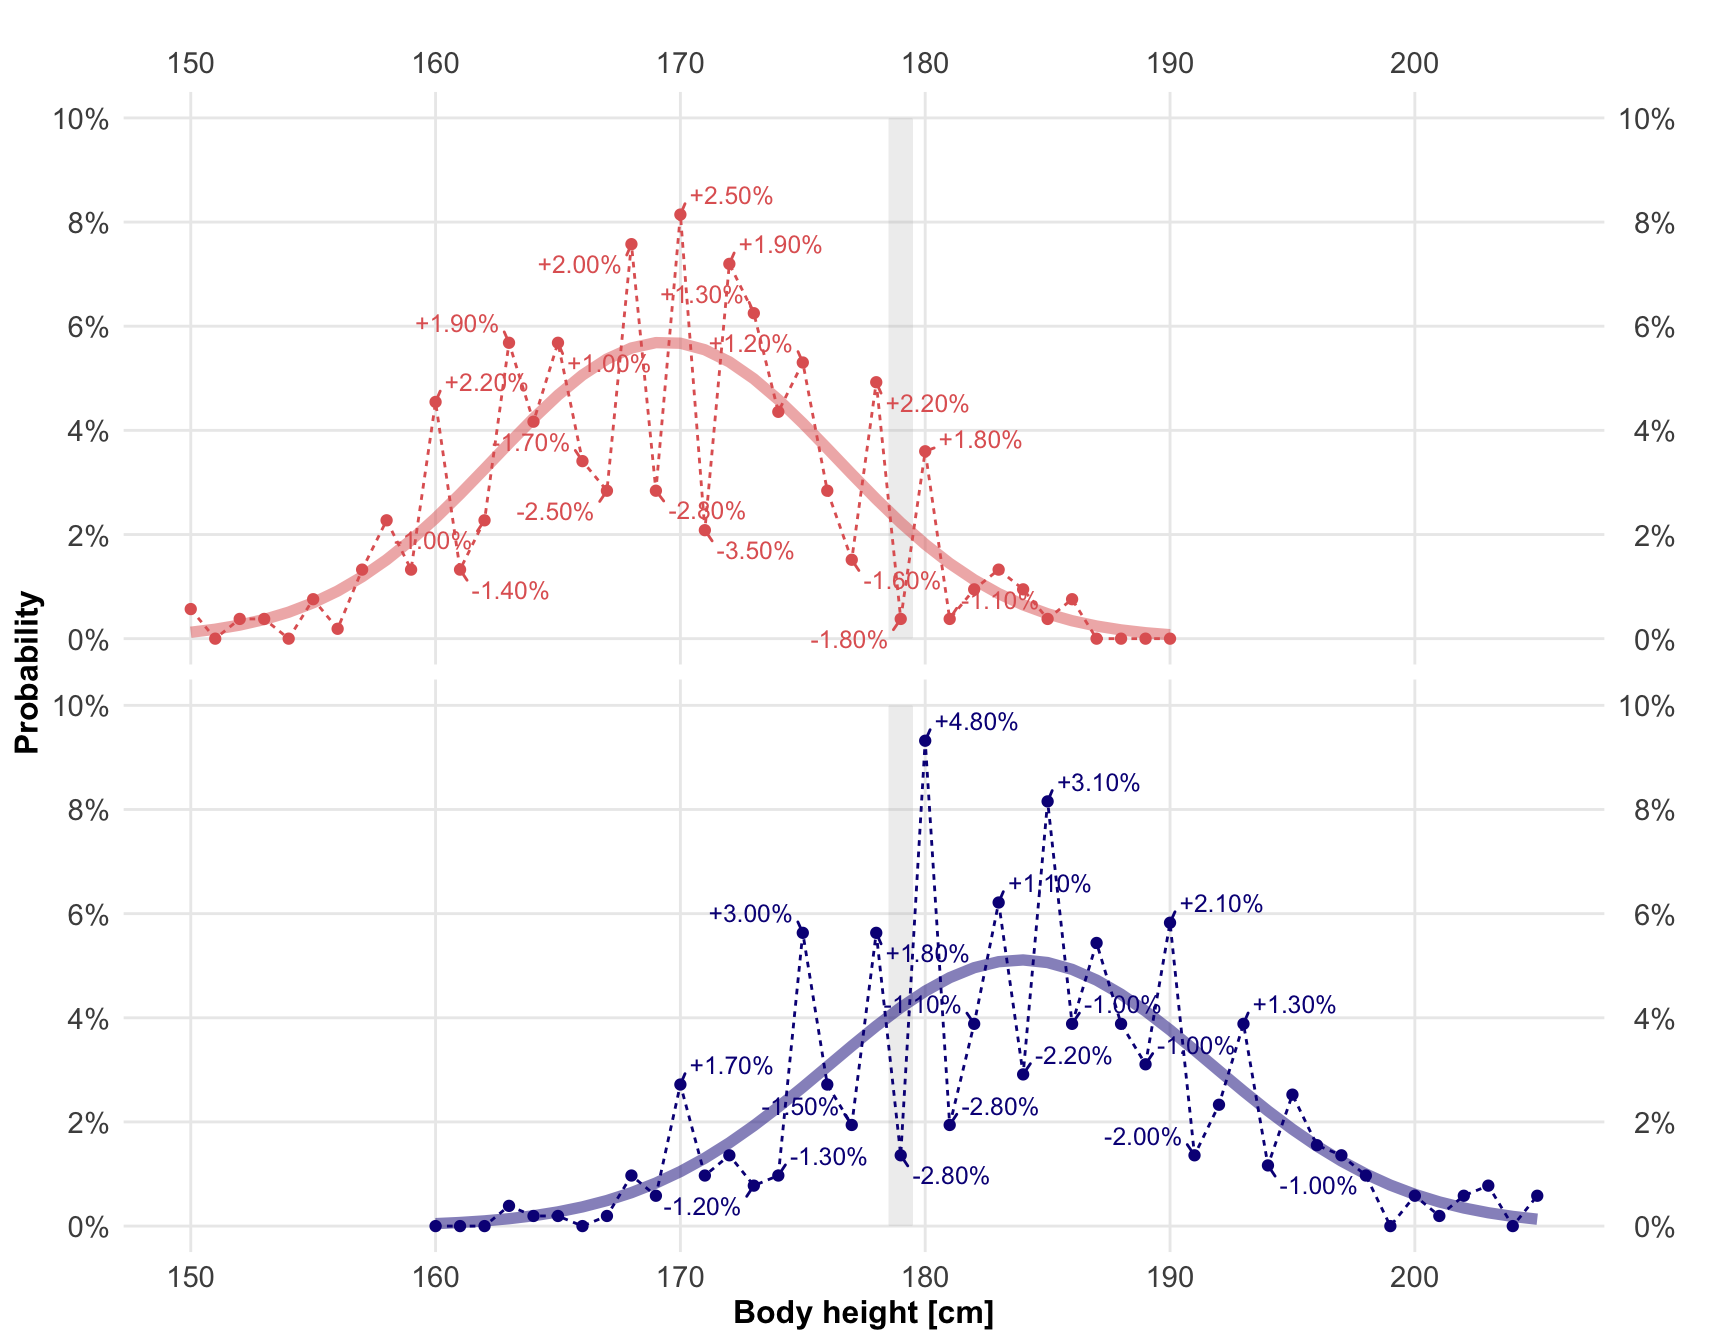
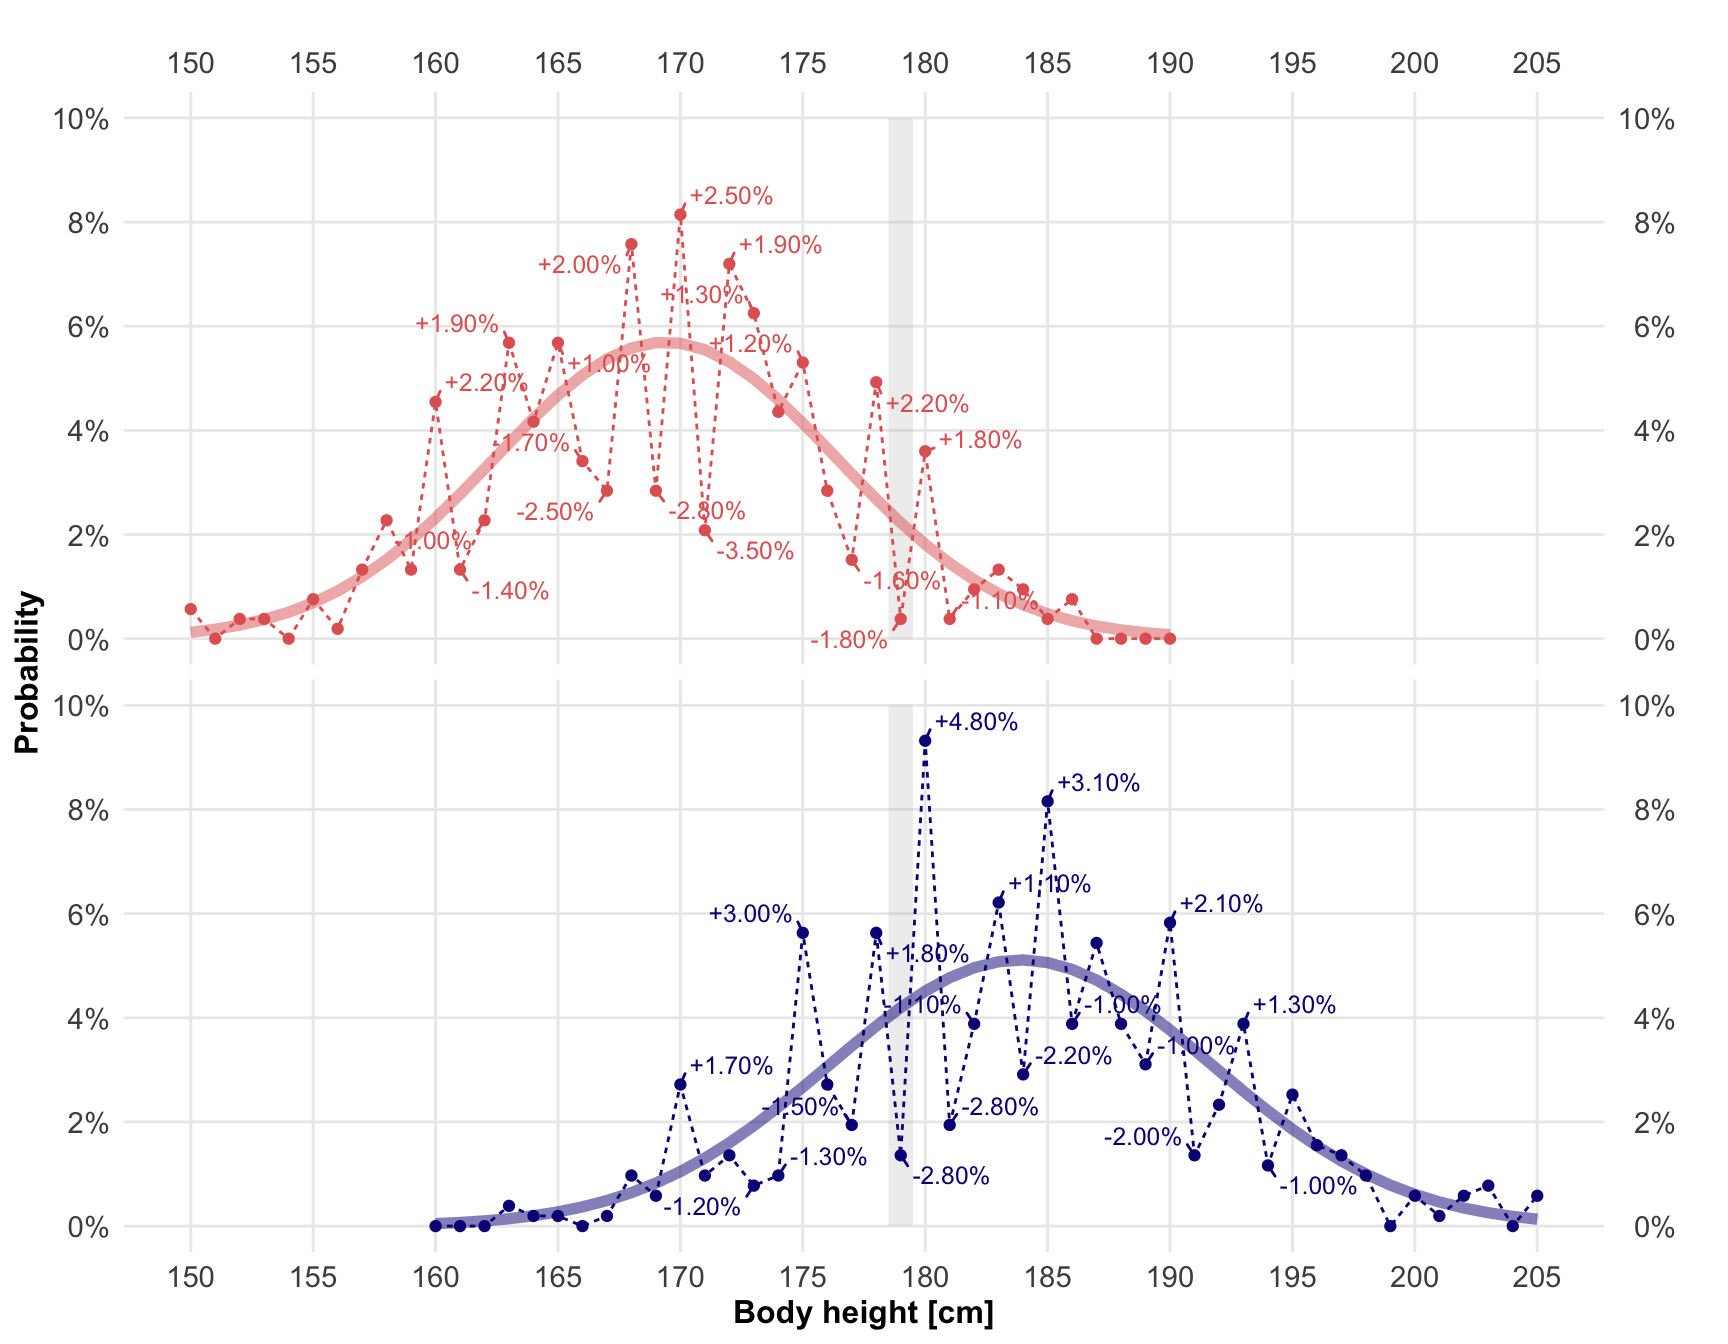
added

diff --git a/docs/interlude-I-gummibaers.html b/docs/interlude-I-gummibaers.html
@@ -460,7 +460,7 @@ window.Quarto = {
 </header>
 
 
-<p><em>Last modified on 22. October 2026 at 17:46:34</em></p>
+<p><em>Last modified on 22. October 2026 at 18:41:06</em></p>
 <blockquote class="blockquote">
 <p><em>“Gummy Bears! Bouncing here and there and everywhere; High adventure that’s beyond compare; They are the Gummy Bears.” — Gummy Bears Theme, Adventures of the Gummy Bears</em></p>
 </blockquote>
@@ -1605,7 +1605,7 @@ Probability to be 179cm
 </div>
 <div class="cell" data-layout-align="center">
 <div class="cell-output-display">
-<div id="fig-chap-interlude-I-hist-height-deviation" class="quarto-float quarto-figure quarto-figure-center anchored" width="864" data-fig-align="center">
+<div id="fig-chap-interlude-I-hist-height-deviation" class="quarto-float quarto-figure quarto-figure-center anchored" data-fig-align="center" width="864">
 <figure class="quarto-float quarto-float-fig figure">
 <div aria-describedby="fig-chap-interlude-I-hist-height-deviation-caption-0ceaefa1-69ba-4598-a22c-09a6ac19f8ca">
 <a href="interlude-I-gummibaers_files/figure-html/fig-chap-interlude-I-hist-height-deviation-1.png" class="lightbox" data-gallery="quarto-lightbox-gallery-4" title="Figure&nbsp;4.4: "><img src="interlude-I-gummibaers_files/figure-html/fig-chap-interlude-I-hist-height-deviation-1.png" id="fig-chap-interlude-I-hist-height-deviation" class="img-fluid quarto-figure quarto-figure-center anchored figure-img" width="864"></a>
@@ -2879,7 +2879,7 @@ Table&nbsp;4.9: A not-so-serious table of rare events and their odds of happenin
 <span id="cb9-479"><a href="#cb9-479" aria-hidden="true" tabindex="-1"></a>  <span class="fu">facet_wrap</span>(<span class="sc">~</span>gender, <span class="at">nrow =</span> <span class="dv">2</span>) <span class="sc">+</span></span>
 <span id="cb9-480"><a href="#cb9-480" aria-hidden="true" tabindex="-1"></a>  <span class="fu">scale_y_continuous</span>(<span class="at">label =</span> scales<span class="sc">::</span>percent, <span class="at">breaks =</span> <span class="fu">c</span>(<span class="dv">0</span>, <span class="fl">0.02</span>, <span class="fl">0.04</span>, <span class="fl">0.06</span>, <span class="fl">0.08</span>, <span class="fl">0.1</span>),</span>
 <span id="cb9-481"><a href="#cb9-481" aria-hidden="true" tabindex="-1"></a>                     <span class="at">limits =</span> <span class="fu">c</span>(<span class="dv">0</span>, <span class="fl">0.1</span>), <span class="at">sec.axis =</span> <span class="fu">dup_axis</span>(<span class="at">name =</span> <span class="st">""</span>)) <span class="sc">+</span></span>
-<span id="cb9-482"><a href="#cb9-482" aria-hidden="true" tabindex="-1"></a>  <span class="fu">scale_x_continuous</span>(<span class="at">sec.axis =</span> <span class="fu">dup_axis</span>(<span class="at">name =</span> <span class="st">""</span>)) <span class="sc">+</span></span>
+<span id="cb9-482"><a href="#cb9-482" aria-hidden="true" tabindex="-1"></a>  <span class="fu">scale_x_continuous</span>(<span class="at">sec.axis =</span> <span class="fu">dup_axis</span>(<span class="at">name =</span> <span class="st">""</span>), <span class="at">breaks =</span> <span class="fu">seq</span>(<span class="dv">150</span>, <span class="dv">210</span>, <span class="dv">5</span>)) <span class="sc">+</span></span>
 <span id="cb9-483"><a href="#cb9-483" aria-hidden="true" tabindex="-1"></a>  <span class="fu">labs</span>(<span class="at">x =</span> <span class="st">"Body height [cm]"</span>, <span class="at">y =</span> <span class="st">"Probability"</span>) <span class="sc">+</span></span>
 <span id="cb9-484"><a href="#cb9-484" aria-hidden="true" tabindex="-1"></a>  <span class="fu">theme</span>(<span class="at">legend.position =</span> <span class="st">"none"</span>,</span>
 <span id="cb9-485"><a href="#cb9-485" aria-hidden="true" tabindex="-1"></a>        <span class="at">strip.background =</span> <span class="fu">element_blank</span>(),</span>
